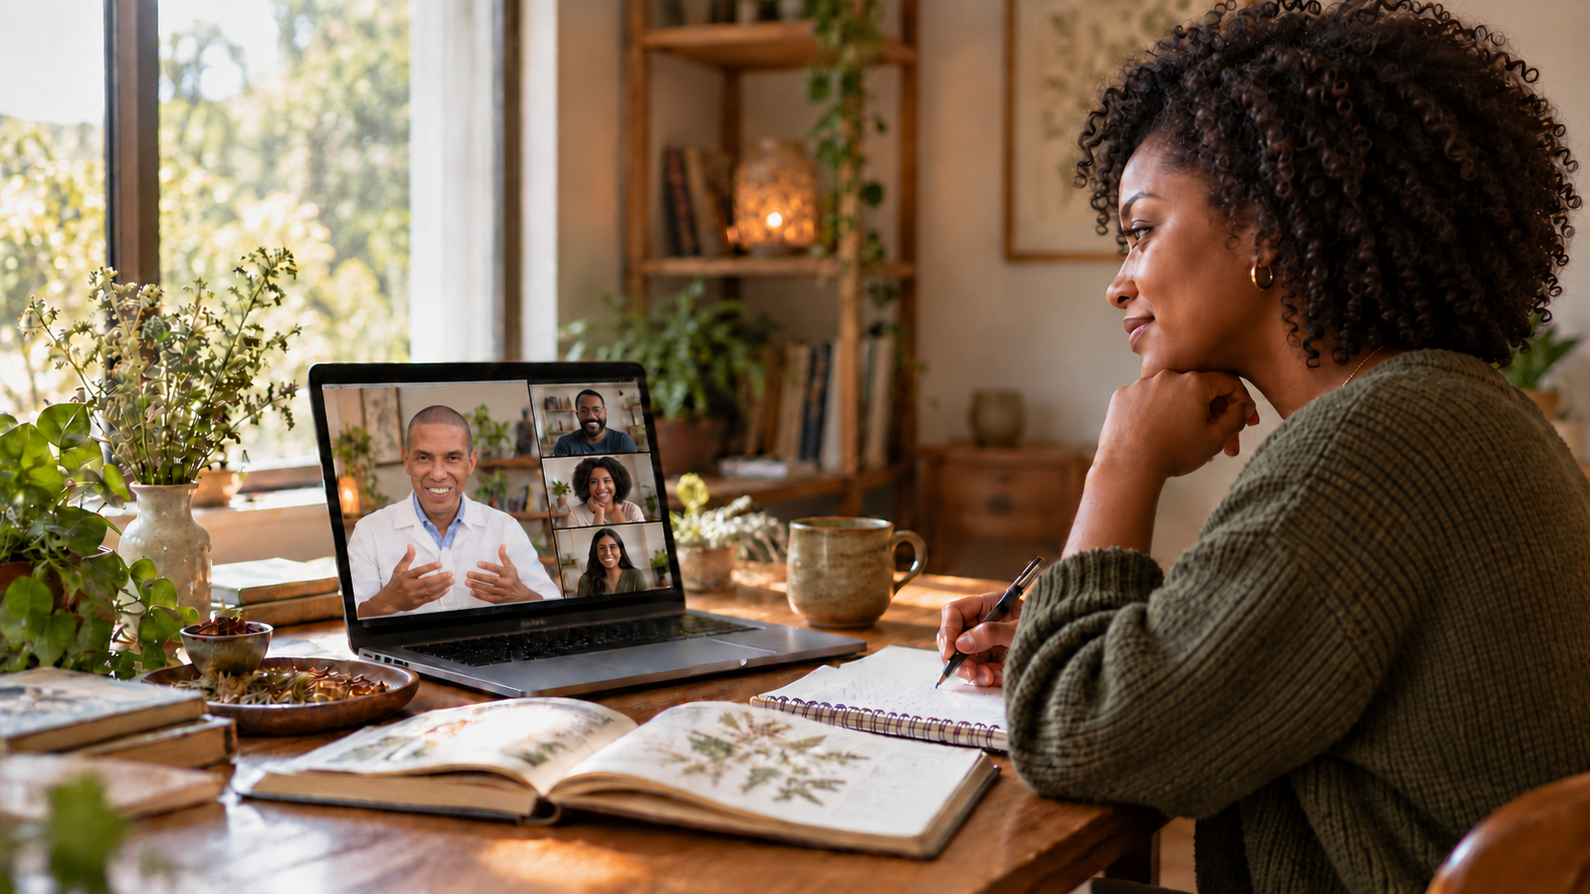
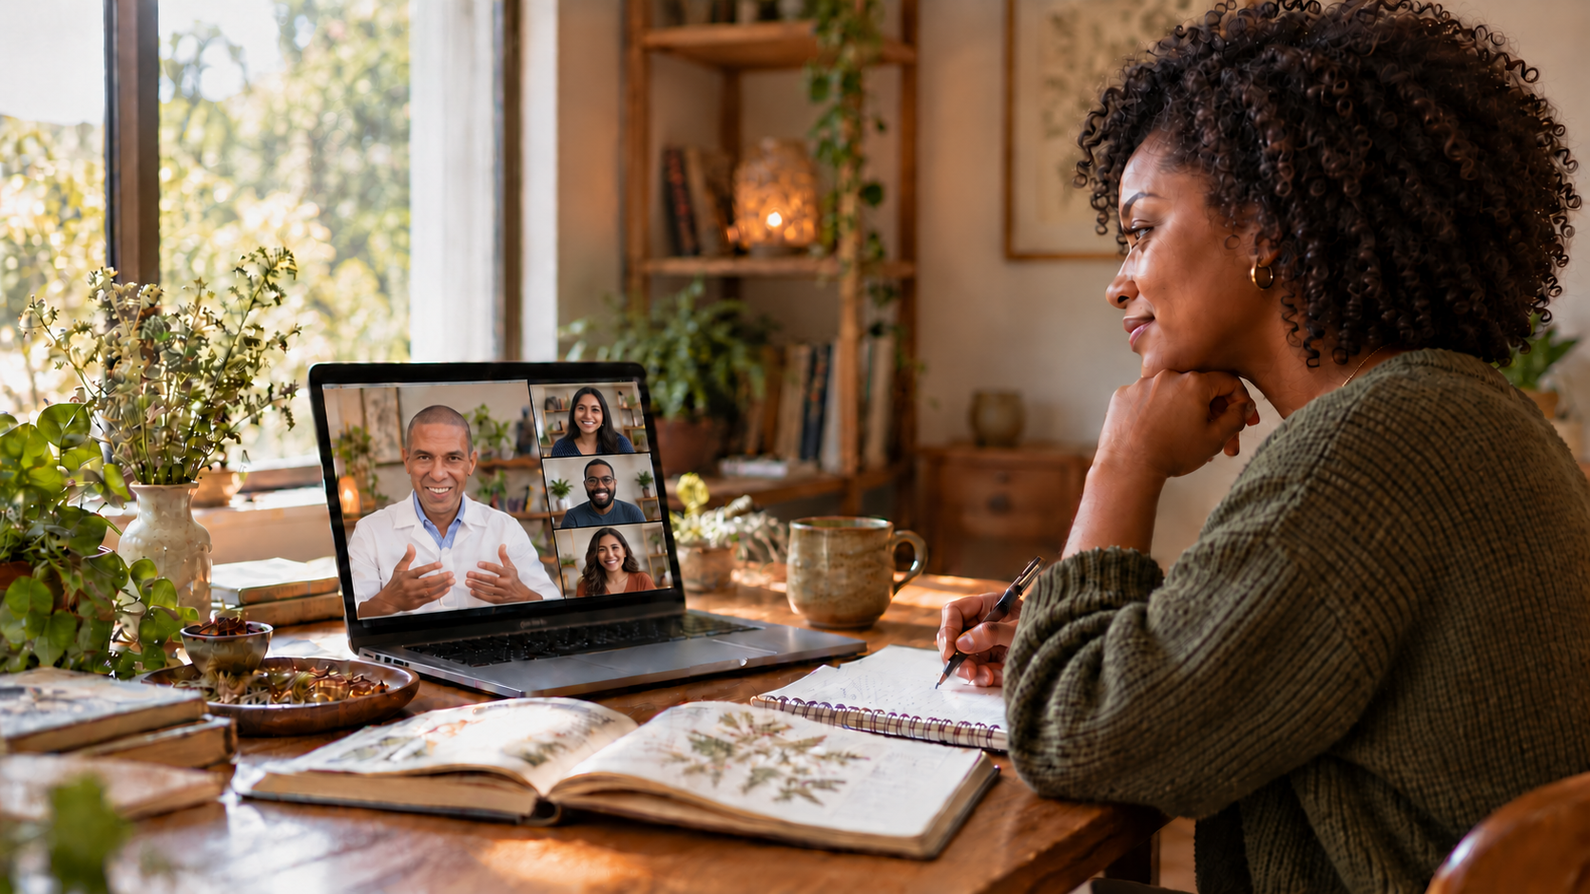
Add botanical course cards and standalone course registration

diff --git a/public/institute/style.css b/public/institute/style.css
@@ -63,8 +63,10 @@ a:focus-visible { outline: 3px solid var(--gold); outline-offset: 4px; }
 .section-heading > p:last-child { margin: 0 auto; color: var(--muted); }
 .learning-section { background: #f0efe7; }
 .course-grid { display: grid; grid-template-columns: repeat(3, minmax(0, 1fr)); gap: 14px; max-width: 1160px; margin: 0 auto; }
-.course-card { display: flex; flex-direction: column; padding: 27px 25px 24px; border: 1px solid #103d2b20; background: #faf9f5; }
+.course-card { display: flex; flex-direction: column; overflow: hidden; padding: 27px 25px 24px; border: 1px solid #103d2b20; background: #faf9f5; }
 .course-current { border-color: #31594075; background: #e7ebe2; }
+.course-visual { position: relative; flex: 0 0 auto; height: 142px; margin: -27px -25px 22px; overflow: hidden; border-bottom: 1px solid #b78a3f35; background: #f1e9d4; }
+.course-visual img { display: block; width: 100%; height: 100%; object-fit: cover; object-position: center; }
 .course-label { margin-bottom: 20px; color: var(--sage); font-size: 9px; font-weight: 600; letter-spacing: 1.4px; }
 .course-label span { display: inline-block; margin-left: 5px; color: #777b70; font-size: 8px; letter-spacing: 1px; }
 .course-card h3 { margin: 0 0 14px; font-size: 29px; line-height: 1.15; }
@@ -76,6 +78,7 @@ a:focus-visible { outline: 3px solid var(--gold); outline-offset: 4px; }
 .course-card ul { margin: 0 0 17px; padding-left: 18px; color: #50584e; font-size: 11px; line-height: 1.75; }
 .course-card li + li { margin-top: 6px; }
 .course-card .course-footnote { margin-top: auto; padding-top: 15px; border-top: 1px solid #103d2b20; color: #73776d !important; font-size: 10px !important; }
+.course-action { display: inline-flex; align-items: center; gap: 10px; align-self: flex-start; margin-top: 15px; color: var(--green); font-size: 11px; font-weight: 600; text-decoration: underline; text-decoration-color: var(--gold); text-underline-offset: 4px; }
 
 .enrollment-section { background: var(--paper); }
 .enrollment-steps { display: grid; grid-template-columns: repeat(4, minmax(0, 1fr)); gap: 18px; max-width: 1160px; margin: 0 auto; padding: 0; list-style: none; counter-reset: enrollment; }
@@ -85,6 +88,33 @@ a:focus-visible { outline: 3px solid var(--gold); outline-offset: 4px; }
 .enrollment-steps p { margin: 0; color: var(--muted); font-size: 11px; line-height: 1.75; }
 .enrollment-note { max-width: 940px; margin: 30px auto 0; padding: 16px 19px; border: 1px solid #b78a3f66; background: #f2eee3; color: #55594f; font-size: 11px; line-height: 1.75; }
 .enrollment-note strong { color: var(--green); }
+
+.registration-section { display: grid; grid-template-columns: .82fr 1.18fr; gap: 9%; align-items: start; background: #eeeee4; }
+.registration-intro h2 { margin-bottom: 22px; }
+.registration-page { max-width: 1320px; min-height: calc(100vh - 180px); margin: 0 auto; }
+.registration-page .registration-intro h1 { margin: 0 0 22px; font-size: clamp(56px, 6vw, 78px); }
+.registration-back { color: var(--green); font-size: 12px; text-decoration: underline; text-decoration-color: var(--gold); text-underline-offset: 4px; }
+.registration-tuition { margin-top: 24px; padding-top: 16px; border-top: 1px solid #103d2b20; color: var(--muted); font-size: 11px; }
+.registration-tuition strong { color: var(--green); }
+.registration-intro > p:not(.eyebrow) { color: var(--muted); font-size: 13px; }
+.registration-intro .registration-disclaimer { margin-top: 24px; padding: 15px 17px; border-left: 2px solid var(--gold); background: #f7f5ef; font-size: 11px !important; }
+.registration-form { display: grid; gap: 19px; padding: 30px; border: 1px solid #103d2b20; background: var(--paper); }
+.form-row { display: grid; grid-template-columns: 1fr 1fr; gap: 17px; }
+.form-field { display: grid; gap: 7px; }
+.form-field label { color: var(--green); font-size: 11px; font-weight: 600; }
+.form-field label span { color: var(--muted); font-weight: 400; }
+.form-field input, .form-field select, .form-field textarea { width: 100%; min-height: 47px; border: 1px solid #103d2b40; border-radius: 0; padding: 11px 12px; background: #fffefa; color: var(--ink); font: inherit; font-size: 13px; }
+.form-field textarea { min-height: 100px; resize: vertical; }
+.form-field input:focus-visible, .form-field select:focus-visible, .form-field textarea:focus-visible, .consent-field input:focus-visible { outline: 3px solid var(--gold); outline-offset: 2px; }
+.consent-field { display: flex; align-items: flex-start; gap: 10px; color: var(--muted); font-size: 11px; line-height: 1.65; }
+.consent-field input { flex: 0 0 auto; width: 17px; height: 17px; margin: 2px 0 0; accent-color: var(--green); }
+.form-honeypot { position: absolute; left: -10000px; width: 1px; height: 1px; overflow: hidden; }
+.registration-form .button { justify-self: start; cursor: pointer; }
+.registration-form .button:disabled { cursor: wait; opacity: .7; }
+.enrollment-register { margin: 25px 0 0; text-align: center; }
+.form-status { margin: -5px 0 0; color: var(--muted); font-size: 10px; line-height: 1.65; }
+.form-status[data-state="error"] { color: #8c2f23; }
+.form-status[data-state="success"] { color: var(--green); }
 
 .study-section { display: grid; grid-template-columns: .88fr 1.12fr; gap: 9%; align-items: start; }
 .study-heading h2 { margin: 0; }
@@ -100,18 +130,6 @@ a:focus-visible { outline: 3px solid var(--gold); outline-offset: 4px; }
 .assessment-grid p { color: var(--muted); font-size: 12px; line-height: 1.85; }
 .assessment-note { max-width: 850px; margin: 32px auto 0; color: #73776d; font-size: 10px; text-align: center; }
 
-.student-section { display: grid; grid-template-columns: 1.2fr .8fr; gap: 8%; align-items: center; padding: 84px 8%; background: var(--green); color: #d9e0d6; }
-.student-section h2 { color: var(--paper); }
-.eyebrow-light { color: #d6bd87; }
-.student-copy > p:not(.eyebrow) { color: #c7d1c3; font-size: 13px; }
-.button-light { margin-top: 8px; border-color: #e6ebdf; color: white; }
-.button-light:hover { background: #234f39; }
-.student-help { margin-top: 20px; margin-bottom: 0; font-size: 10px !important; }
-.enrollment-card { padding: 29px; border: 1px solid #d6bd8780; background: #f5f3ea; color: var(--ink); }
-.enrollment-card .eyebrow { font-size: 8px; }
-.enrollment-card h3 { margin-bottom: 12px; font-size: 28px; }
-.enrollment-card > p:not(.eyebrow) { margin: 0; color: var(--muted); font-size: 11px; }
-.enrollment-card > a { display: inline-flex; gap: 10px; margin-top: 18px; color: var(--green); font-size: 11px; font-weight: 600; text-decoration: underline; text-decoration-color: var(--gold); text-underline-offset: 4px; }
 .program-note { display: grid; grid-template-columns: 25px 1fr; gap: 13px; align-items: start; margin: 22px 8% 0; padding: 18px 20px; border: 1px solid #b78a3f66; background: #f2eee3; }
 .program-note > span { display: grid; width: 22px; height: 22px; place-items: center; border: 1px solid var(--gold); border-radius: 50%; color: var(--green); font-family: var(--serif); }
 .program-note p { margin: 0; color: #55594f; font-size: 10px; line-height: 1.8; }
@@ -121,7 +139,7 @@ a:focus-visible { outline: 3px solid var(--gold); outline-offset: 4px; }
 .institute-footer > p { justify-self: end; margin: 0; color: var(--muted); font-size: 9px; }
 
 @media (min-width: 1500px) {
-  .institute-header, .institute-hero, .learning-ribbon, .section, .student-section, .institute-footer { padding-right: max(8%, calc((100vw - 1280px) / 2)); padding-left: max(8%, calc((100vw - 1280px) / 2)); }
+  .institute-header, .institute-hero, .learning-ribbon, .section, .institute-footer { padding-right: max(8%, calc((100vw - 1280px) / 2)); padding-left: max(8%, calc((100vw - 1280px) / 2)); }
   .program-note { max-width: 1120px; margin-right: auto; margin-left: auto; }
 }
 @media (max-width: 900px) {
@@ -129,9 +147,9 @@ a:focus-visible { outline: 3px solid var(--gold); outline-offset: 4px; }
   .hero-artwork, .hero-artwork img { min-height: 310px; height: 310px; }
   .hero-artwork figcaption { position: absolute; right: 8px; bottom: 8px; left: 8px; padding: 20px 10px 8px; color: white; background: linear-gradient(transparent, #103d2bba); }
   .course-card { padding: 24px 20px; }
+  .course-visual { margin: -24px -20px 19px; }
   .course-card h3 { font-size: 25px; }
   .enrollment-steps { grid-template-columns: repeat(2, minmax(0, 1fr)); }
-  .student-section { grid-template-columns: 1fr 1fr; }
 }
 @media (max-width: 640px) {
   html { scroll-padding-top: 76px; }
@@ -153,6 +171,7 @@ a:focus-visible { outline: 3px solid var(--gold); outline-offset: 4px; }
   .section-heading { margin-bottom: 31px; }
   .course-grid { grid-template-columns: 1fr; gap: 10px; }
   .course-card { padding: 24px 22px; }
+  .course-visual { height: auto; aspect-ratio: 3 / 1; margin: -24px -22px 18px; }
   .course-card h3 { font-size: 28px; }
   .enrollment-steps { grid-template-columns: 1fr; gap: 10px; }
   .enrollment-steps li { padding-top: 13px; }
@@ -160,8 +179,9 @@ a:focus-visible { outline: 3px solid var(--gold); outline-offset: 4px; }
   .study-section { grid-template-columns: 1fr; gap: 21px; }
   .assessment-grid { grid-template-columns: 1fr; gap: 21px; }
   .assessment-grid h3 { font-size: 23px; }
-  .student-section { grid-template-columns: 1fr; gap: 30px; padding: 60px 6%; }
-  .enrollment-card { padding: 24px; }
+  .registration-section { grid-template-columns: 1fr; gap: 27px; }
+  .registration-form { gap: 16px; padding: 22px; }
+  .form-row { grid-template-columns: 1fr; }
   .program-note { grid-template-columns: 22px 1fr; gap: 9px; margin: 14px 6% 0; padding: 15px; }
   .institute-footer { grid-template-columns: 1fr; gap: 18px; padding: 26px 6%; }
   .institute-footer nav { flex-wrap: wrap; gap: 13px 18px; }

diff --git a/public/institute/index.html b/public/institute/index.html
@@ -4,7 +4,7 @@
     <meta charset="UTF-8">
     <meta name="viewport" content="width=device-width, initial-scale=1">
     <meta name="theme-color" content="#103d2b">
-    <meta name="description" content="Explore the Shamba Sana Institute learning path and access Google Classroom as an enrolled student.">
+    <meta name="description" content="Explore virtual courses in Chinese medicine at the Shamba Sana Institute and begin course registration.">
     <title>The Institute | Shamba Sana</title>
     <link rel="preconnect" href="https://fonts.googleapis.com">
     <link rel="preconnect" href="https://fonts.gstatic.com" crossorigin>
@@ -24,8 +24,7 @@
       <nav id="institute-navigation" aria-label="Institute navigation">
         <a href="#learning-path">Learning path</a>
         <a href="#enrollment">How to enroll</a>
-        <a href="#student-access">Student access</a>
-        <a class="nav-button" href="https://classroom.google.com/" target="_blank" rel="noopener noreferrer">Open Classroom <span aria-hidden="true">↗</span></a>
+        <a href="registration.html" target="_blank" rel="noopener noreferrer">Course registration <span aria-hidden="true">↗</span></a>
       </nav>
     </header>
 
@@ -41,7 +40,7 @@
           </div>
         </div>
         <figure class="hero-artwork">
-          <img src="../assets/institute-online-class-dumisani.png" alt="Illustrative virtual class with Dumisani Kambi-Shamba teaching an African American man, an African American woman and an Indian woman" width="1536" height="1024">
+          <img src="../assets/institute-online-class-dumisani.png" alt="Illustrative virtual class with Dumisani Kambi-Shamba teaching an Asian Indian woman, an African American man and a Hispanic woman" width="1536" height="1024">
           <figcaption>An illustrative view of Dumisani teaching online.</figcaption>
         </figure>
       </section>
@@ -61,6 +60,9 @@
 
         <div class="course-grid">
           <article class="course-card course-current">
+            <div class="course-visual course-visual-foundations" aria-hidden="true">
+              <img src="../assets/course-foundations-botanical.png" alt="" loading="lazy" decoding="async">
+            </div>
             <p class="course-label">COURSE 01 <span>CURRENT CLASS</span></p>
             <h3>Foundations of Chinese Medicine</h3>
             <p>Explore the philosophical roots and core frameworks of Chinese medicine, with attention to balance, change and the relationship between people and their environments.</p>
@@ -78,9 +80,13 @@
               <li>Foundations of health, disease and prevention</li>
             </ul>
             <p class="course-footnote">The current Classroom sequence covers Yin-Yang and Five Element foundations, vital substances, Qi transformation and internal organ functions. Dates and registration availability are to be announced.</p>
+            <a class="course-action" href="registration.html?course=Foundations%20of%20Chinese%20Medicine" target="_blank" rel="noopener noreferrer">Register for this course <span aria-hidden="true">↗</span></a>
           </article>
 
           <article class="course-card">
+            <div class="course-visual course-visual-psyche" aria-hidden="true">
+              <img src="../assets/course-psyche-botanical.png" alt="" loading="lazy" decoding="async">
+            </div>
             <p class="course-label">COURSE 02 <span>CATALOG PATHWAY</span></p>
             <h3>The Psyche in Chinese Medicine</h3>
             <p>Study traditional perspectives on consciousness, emotion and physical wellbeing, including the Five Spirits and their relationships to the organs.</p>
@@ -97,9 +103,13 @@
               <li>Dialogue with contemporary psychology</li>
             </ul>
             <p class="course-footnote">Planned course outline. Schedule and registration availability have not been announced.</p>
+            <a class="course-action" href="registration.html?course=The%20Psyche%20in%20Chinese%20Medicine" target="_blank" rel="noopener noreferrer">Register for this course <span aria-hidden="true">↗</span></a>
           </article>
 
           <article class="course-card">
+            <div class="course-visual course-visual-diagnosis" aria-hidden="true">
+              <img src="../assets/course-diagnosis-botanical.png" alt="" loading="lazy" decoding="async">
+            </div>
             <p class="course-label">COURSE 03 <span>CATALOG PATHWAY</span></p>
             <h3>Advanced Diagnosis &amp; Treatment</h3>
             <p>Build foundational clinical reasoning through traditional diagnostic frameworks, organized observation and guided case analysis.</p>
@@ -116,6 +126,7 @@
               <li>Treatment principles and case analysis</li>
             </ul>
             <p class="course-footnote">Planned course outline. Schedule and registration availability have not been announced; practical training would require separate arrangements and appropriate supervision.</p>
+            <a class="course-action" href="registration.html?course=Advanced%20Diagnosis%20%26%20Treatment" target="_blank" rel="noopener noreferrer">Register for this course <span aria-hidden="true">↗</span></a>
           </article>
         </div>
       </section>
@@ -133,6 +144,7 @@
           <li><span>04</span><h3>Get ready to learn</h3><p>Receive your orientation details and private invitation to the course in Google Classroom.</p></li>
         </ol>
         <p class="enrollment-note"><strong>Tuition:</strong> $1,350 per course, with a planned option to pay in full or in three monthly installments of $450. Cohort dates, application opening and final student policies are still being prepared; payment is not available yet.</p>
+        <p class="enrollment-register"><a class="button button-solid" href="registration.html" target="_blank" rel="noopener noreferrer">Open course registration <span aria-hidden="true">↗</span></a></p>
       </section>
 
       <section class="section study-section" aria-labelledby="study-title">
@@ -165,22 +177,6 @@
         <p class="assessment-note">Assessment formats and expectations are shared with learners for each course. The draft handbook’s grading, attendance and certificate terms are not yet final.</p>
       </section>
 
-      <section class="student-section" id="student-access" aria-labelledby="student-title">
-        <div class="student-copy">
-          <p class="eyebrow eyebrow-light">For enrolled students</p>
-          <h2 id="student-title">Your classroom<br>is ready when <em>you are.</em></h2>
-          <p>Open Google Classroom to find your classes, course materials, assignments and returned work. Sign in with the Google account connected to your class invitation.</p>
-          <a class="button button-light" href="https://classroom.google.com/" target="_blank" rel="noopener noreferrer">Go to Google Classroom <span aria-hidden="true">↗</span></a>
-          <p class="student-help">New to a class? Your instructor will send a private invitation. Sign in with the Google account connected to your enrollment.</p>
-        </div>
-        <aside class="enrollment-card">
-          <p class="eyebrow">Considering the Institute?</p>
-          <h3>Study from wherever you are.</h3>
-          <p>Courses are planned for virtual online learning. Registration will open after cohort dates and student policies are confirmed.</p>
-          <a href="#enrollment">See how enrollment will work <span aria-hidden="true">↓</span></a>
-        </aside>
-      </section>
-
       <aside class="program-note">
         <span aria-hidden="true">i</span>
         <p><strong>Working course information.</strong> Tuition is $1,350 per course and delivery is virtual online. Cohort dates, final attendance and assessment policies, refund terms and certificate wording are still being confirmed. The Institute provides education; coursework does not by itself authorize professional practice.</p>
@@ -189,9 +185,10 @@
 
     <footer class="institute-footer">
       <a class="brand-name" href="https://shambasana-production.up.railway.app/">SHAMBA SANA<small>ANCIENT WISDOM · MODERN WELLNESS</small></a>
-      <nav aria-label="Footer navigation"><a href="#learning-path">Learning path</a><a href="#enrollment">How to enroll</a><a href="#student-access">Student access</a><a href="https://classroom.google.com/" target="_blank" rel="noopener noreferrer">Google Classroom ↗</a></nav>
+      <nav aria-label="Footer navigation"><a href="#learning-path">Learning path</a><a href="#enrollment">How to enroll</a><a href="registration.html" target="_blank" rel="noopener noreferrer">Course registration ↗</a></nav>
       <p>© 2026 Shamba Sana</p>
     </footer>
     <script src="../assets/site-navigation.js" defer></script>
+    <script src="../assets/course-registration.js" defer></script>
   </body>
 </html>

diff --git a/public/institute/registration.html b/public/institute/registration.html
@@ -1,0 +1,82 @@
+<!doctype html>
+<html lang="en">
+  <head>
+    <meta charset="UTF-8">
+    <meta name="viewport" content="width=device-width, initial-scale=1">
+    <meta name="theme-color" content="#103d2b">
+    <meta name="description" content="Register for a virtual course with the Shamba Sana Institute.">
+    <title>Course Registration | Shamba Sana Institute</title>
+    <link rel="preconnect" href="https://fonts.googleapis.com">
+    <link rel="preconnect" href="https://fonts.gstatic.com" crossorigin>
+    <link href="https://fonts.googleapis.com/css2?family=Lora:ital,wght@0,400;0,500;0,600;0,700;1,400;1,500;1,600;1,700&family=Plus+Jakarta+Sans:wght@400;500;600;700&display=swap" rel="stylesheet">
+    <link rel="stylesheet" href="style.css">
+  </head>
+  <body>
+    <a class="skip-link" href="#main">Skip to content</a>
+    <header class="institute-header">
+      <a class="brand-lockup" href="index.html" aria-label="Shamba Sana Institute home">
+        <img src="../assets/shamba-logo-transparent.png" alt="" width="52" height="56">
+        <span class="brand-name">SHAMBA SANA<small>THE INSTITUTE</small></span>
+      </a>
+      <a class="registration-back" href="index.html">← Back to the Institute</a>
+    </header>
+
+    <main id="main">
+      <section class="section registration-section registration-page" aria-labelledby="registration-title">
+        <div class="registration-intro">
+          <p class="eyebrow">Shamba Sana Institute</p>
+          <h1 id="registration-title">Course<br><em>registration.</em></h1>
+          <p>Complete this form to begin enrollment in a virtual online course. We’ll confirm cohort dates and final course details, then send the steps for payment and student access.</p>
+          <p class="registration-disclaimer">Submitting this form starts your enrollment request. Your place is confirmed after cohort dates and student policies are finalized and payment is complete. No payment is collected here.</p>
+          <p class="registration-tuition"><strong>Tuition:</strong> $1,350 per course. Planned payment options are pay in full or three monthly installments of $450.</p>
+        </div>
+        <form class="registration-form" id="course-registration-form" action="/api/course-registration" method="post">
+          <div class="form-field">
+            <label for="registration-course">Select your course</label>
+            <select id="registration-course" name="course" required>
+              <option value="" selected disabled>Select a course</option>
+              <option value="Foundations of Chinese Medicine">Foundations of Chinese Medicine</option>
+              <option value="The Psyche in Chinese Medicine">The Psyche in Chinese Medicine</option>
+              <option value="Advanced Diagnosis & Treatment">Advanced Diagnosis &amp; Treatment</option>
+            </select>
+          </div>
+          <div class="form-row">
+            <div class="form-field">
+              <label for="registration-name">Full name</label>
+              <input id="registration-name" name="name" autocomplete="name" maxlength="120" required>
+            </div>
+            <div class="form-field">
+              <label for="registration-email">Email address</label>
+              <input id="registration-email" name="email" type="email" autocomplete="email" maxlength="254" required>
+            </div>
+          </div>
+          <div class="form-field">
+            <label for="registration-phone">Phone <span>(optional)</span></label>
+            <input id="registration-phone" name="phone" type="tel" autocomplete="tel" maxlength="40">
+          </div>
+          <div class="form-field">
+            <label for="registration-message">Additional information <span>(optional)</span></label>
+            <textarea id="registration-message" name="message" rows="4" maxlength="1000"></textarea>
+          </div>
+          <label class="consent-field">
+            <input type="checkbox" name="consent" value="yes" required>
+            <span>I confirm these details are accurate and agree to be contacted to complete my course enrollment.</span>
+          </label>
+          <div class="form-honeypot" aria-hidden="true">
+            <label for="registration-website">Leave this field empty</label>
+            <input id="registration-website" name="website" tabindex="-1" autocomplete="off">
+          </div>
+          <button class="button button-solid" type="submit">Submit course registration <span aria-hidden="true">→</span></button>
+          <p class="form-status" id="registration-status" role="status" aria-live="polite">Course registration is being connected to a secure submission destination. The form will not send or store your information until that is ready.</p>
+        </form>
+      </section>
+    </main>
+
+    <footer class="institute-footer">
+      <a class="brand-name" href="index.html">SHAMBA SANA<small>THE INSTITUTE</small></a>
+      <nav aria-label="Footer navigation"><a href="index.html">Institute home</a></nav>
+      <p>© 2026 Shamba Sana</p>
+    </footer>
+    <script src="../assets/course-registration.js" defer></script>
+  </body>
+</html>

diff --git a/public/assets/course-registration.js b/public/assets/course-registration.js
@@ -1,0 +1,39 @@
+(() => {
+  const form = document.querySelector('#course-registration-form');
+  const status = document.querySelector('#registration-status');
+  if (!form || !status) return;
+
+  const courseSelect = form.querySelector('[name="course"]');
+  const requestedCourse = new URLSearchParams(window.location.search).get('course');
+  if (requestedCourse && [...courseSelect.options].some((option) => option.value === requestedCourse)) {
+    courseSelect.value = requestedCourse;
+  }
+
+  form.addEventListener('submit', async (event) => {
+    event.preventDefault();
+    if (!form.reportValidity()) return;
+
+    const button = form.querySelector('button[type="submit"]');
+    button.disabled = true;
+    status.removeAttribute('data-state');
+    status.textContent = 'Sending your request…';
+
+    try {
+      const response = await fetch(form.action, {
+        method: 'POST',
+        headers: { 'Content-Type': 'application/x-www-form-urlencoded;charset=UTF-8' },
+        body: new URLSearchParams(new FormData(form)),
+      });
+      const result = await response.json();
+      if (!response.ok) throw new Error(result.message || 'Your request could not be sent.');
+      status.dataset.state = 'success';
+      status.textContent = result.message;
+      form.reset();
+    } catch (error) {
+      status.dataset.state = 'error';
+      status.textContent = error.message || 'We could not send your request. Please try again later.';
+    } finally {
+      button.disabled = false;
+    }
+  });
+})();
